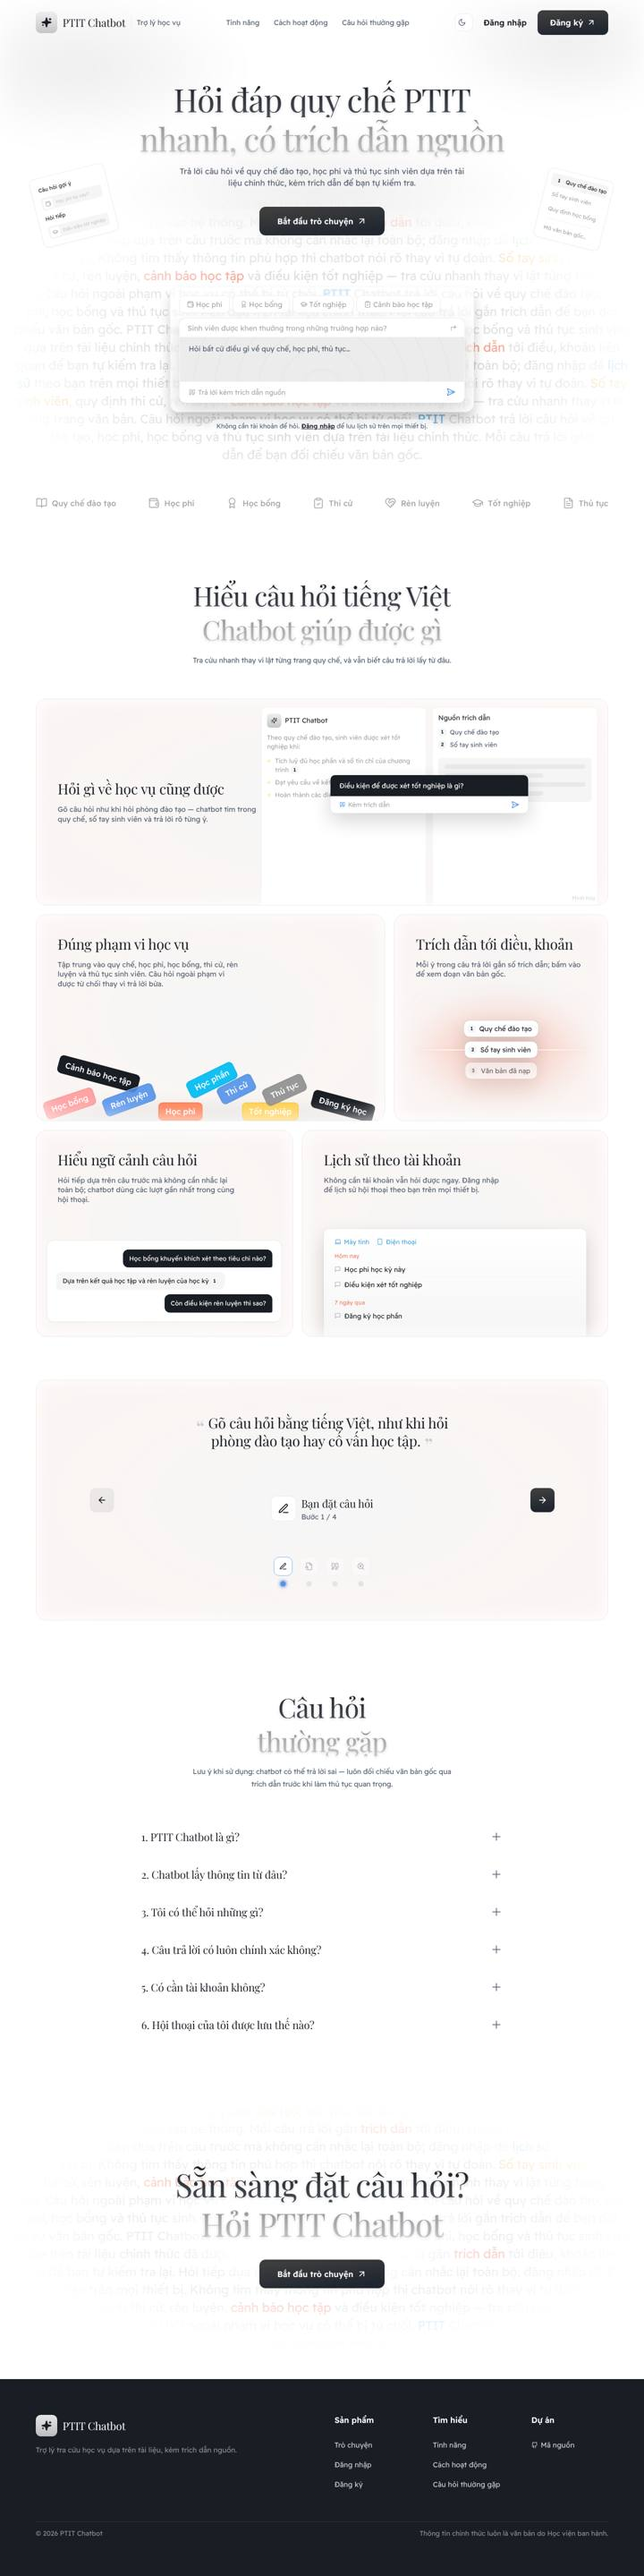
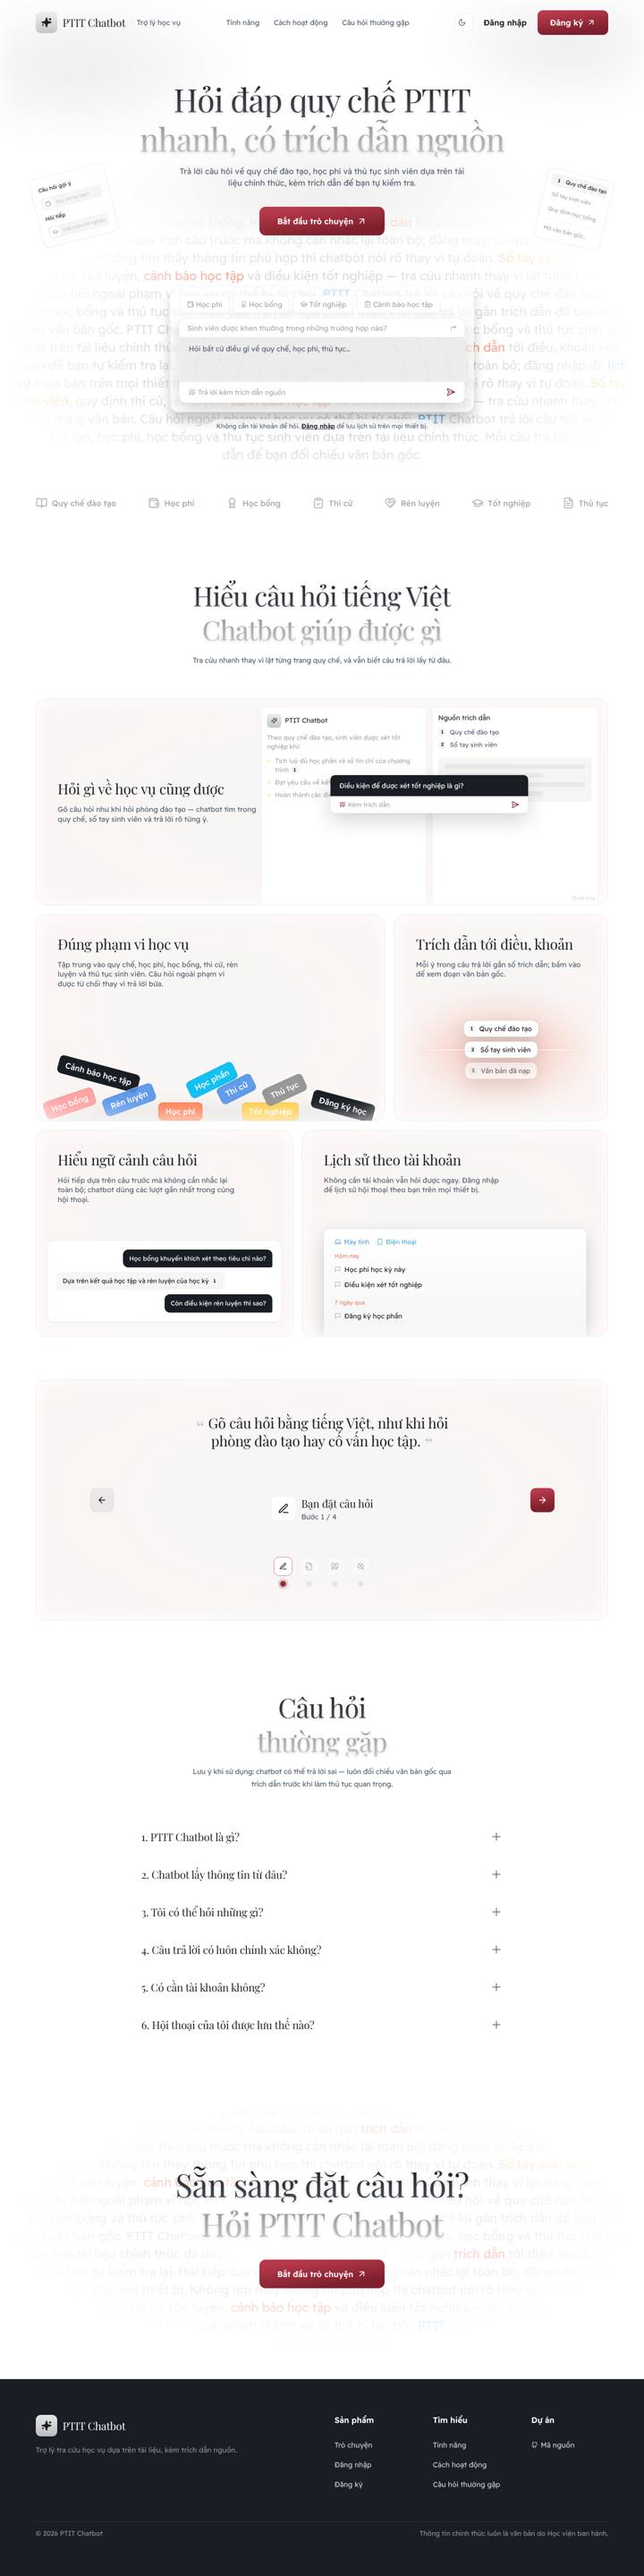
style(frontend): nút landing và trang tài khoản dùng màu maroon PTIT
Token --lp-btn-* và --lp-accent* chuyển sang --brand-* (sáng #7D1F2C→#B8394B,
tối #972635→#C53D52, chữ trắng, tương phản ≥ 5:1); cập nhật kiểm chứng/review.

Claude-Session: https://claude.ai/code/session_01YTzJeHZfTLrFtzzaXAy1aH

diff --git a/frontend/src/styles/tokens.css b/frontend/src/styles/tokens.css
@@ -212,7 +212,8 @@
   --ring-brand: 0 0 0 4px rgba(151, 38, 53, 0.16);
   --ring-danger: 0 0 0 4px rgba(220, 38, 38, 0.16);
 
-  /* Landing (/) — bảng màu theo thiết kế Figma "AI Chat landing page UI kit" */
+  /* Landing (/) — bảng màu theo thiết kế Figma "AI Chat landing page UI kit"; nút chính và
+     màu nhấn dùng maroon PTIT (--brand-*) như app chat. */
   --lp-bg: var(--gray-0);
   --lp-heading: #191d24;
   --lp-heading-gradient: linear-gradient(180deg, #191d24 0%, #4b5059 100%);
@@ -229,9 +230,9 @@
   --lp-glass: rgba(255, 255, 255, 0.6);
   --lp-card-bg: radial-gradient(120% 140% at 50% 50%, #f6f6f6 0%, #fff4f0 100%);
   --lp-card-inset: inset 0 0 50px 0 #ffffff;
-  --lp-btn-bg: linear-gradient(-7deg, #212730 19%, #3d3d3d 87%);
-  --lp-btn-bg-hover: linear-gradient(-7deg, #11151b 19%, #2d2d2d 87%);
-  --lp-btn-text: #ffffff;
+  --lp-btn-bg: linear-gradient(-7deg, var(--brand-700) 19%, #b8394b 87%);
+  --lp-btn-bg-hover: linear-gradient(-7deg, var(--brand-800) 19%, var(--brand-600) 87%);
+  --lp-btn-text: var(--on-solid);
   --lp-btn-soft-bg: linear-gradient(-23deg, rgba(29, 29, 29, 0.07) 19%, rgba(61, 61, 61, 0.07) 87%);
   --lp-logo-tile: linear-gradient(180deg, rgba(238, 238, 238, 0.96) 0%, rgba(195, 195, 195, 0.96) 100%);
   --lp-logo-mark: #191d24;
@@ -244,8 +245,8 @@
   --lp-kw-yellow: #e4b84a;
   --lp-kw-red: #f2846c;
   --lp-kw-blue: #4fa8dd;
-  --lp-accent: #5392ea;
-  --lp-accent-ring: #72acfe;
+  --lp-accent: var(--brand-600);
+  --lp-accent-ring: var(--brand-400);
   --lp-dot: #e3e3e5;
   --lp-tag-pink: #ffa3a4;
   --lp-tag-orange: #ff845b;
@@ -353,9 +354,9 @@
     --lp-glass: rgba(23, 26, 31, 0.7);
     --lp-card-bg: radial-gradient(120% 140% at 50% 50%, #15181d 0%, #1f1a1b 100%);
     --lp-card-inset: inset 0 0 50px 0 rgba(13, 15, 19, 0.9);
-    --lp-btn-bg: linear-gradient(-7deg, #e6e8eb 19%, #ffffff 87%);
-    --lp-btn-bg-hover: linear-gradient(-7deg, #d4d7dc 19%, #f1f2f4 87%);
-    --lp-btn-text: #191d24;
+    --lp-btn-bg: linear-gradient(-7deg, var(--brand-600) 19%, var(--brand-500) 87%);
+    --lp-btn-bg-hover: linear-gradient(-7deg, var(--brand-700) 19%, #b8394b 87%);
+    --lp-btn-text: var(--on-solid);
     --lp-btn-soft-bg: linear-gradient(-23deg, rgba(255, 255, 255, 0.08) 19%, rgba(255, 255, 255, 0.12) 87%);
     --lp-logo-tile: linear-gradient(180deg, rgba(70, 74, 82, 0.96) 0%, rgba(38, 41, 47, 0.96) 100%);
     --lp-logo-mark: #f3f4f6;
@@ -369,8 +370,8 @@
     --lp-kw-red: rgba(217, 112, 90, 0.6);
     --lp-kw-blue: rgba(71, 144, 189, 0.65);
     --lp-tag-dark: #3a3f48;
-    --lp-accent: #6aa4f0;
-    --lp-accent-ring: #6aa4f0;
+    --lp-accent: var(--brand-400);
+    --lp-accent-ring: var(--brand-400);
     --lp-dot: #353a43;
     --lp-glow: rgba(255, 120, 90, 0.18);
     --lp-footer-bg: #08090c;
@@ -462,9 +463,9 @@
   --lp-glass: rgba(23, 26, 31, 0.7);
   --lp-card-bg: radial-gradient(120% 140% at 50% 50%, #15181d 0%, #1f1a1b 100%);
   --lp-card-inset: inset 0 0 50px 0 rgba(13, 15, 19, 0.9);
-  --lp-btn-bg: linear-gradient(-7deg, #e6e8eb 19%, #ffffff 87%);
-  --lp-btn-bg-hover: linear-gradient(-7deg, #d4d7dc 19%, #f1f2f4 87%);
-  --lp-btn-text: #191d24;
+  --lp-btn-bg: linear-gradient(-7deg, var(--brand-600) 19%, var(--brand-500) 87%);
+  --lp-btn-bg-hover: linear-gradient(-7deg, var(--brand-700) 19%, #b8394b 87%);
+  --lp-btn-text: var(--on-solid);
   --lp-btn-soft-bg: linear-gradient(-23deg, rgba(255, 255, 255, 0.08) 19%, rgba(255, 255, 255, 0.12) 87%);
   --lp-logo-tile: linear-gradient(180deg, rgba(70, 74, 82, 0.96) 0%, rgba(38, 41, 47, 0.96) 100%);
   --lp-logo-mark: #f3f4f6;
@@ -478,8 +479,8 @@
   --lp-kw-red: rgba(217, 112, 90, 0.6);
   --lp-kw-blue: rgba(71, 144, 189, 0.65);
   --lp-tag-dark: #3a3f48;
-  --lp-accent: #6aa4f0;
-  --lp-accent-ring: #6aa4f0;
+  --lp-accent: var(--brand-400);
+  --lp-accent-ring: var(--brand-400);
   --lp-dot: #353a43;
   --lp-glow: rgba(255, 120, 90, 0.18);
   --lp-footer-bg: #08090c;

diff --git a/.agents/tasks/2026-10-28-landing-figma-redesign/review.md b/.agents/tasks/2026-10-28-landing-figma-redesign/review.md
@@ -4,7 +4,7 @@
 - Hình thức: `self_review`.
 - Trạng thái: `approved`.
 - Bản được review: diff `053b561..feat/landing-figma-redesign` (commit sau bàn giao).
-- Cập nhật lúc: `2026-10-28T09:25:00+07:00`.
+- Cập nhật lúc: `2026-10-28T09:56:40+07:00`.
 
 ## Phạm vi và cơ sở đánh giá
 
@@ -28,9 +28,15 @@
 
 ### R-03 — Landing không còn dùng màu maroon nhận diện
 
-- Mức độ: `low`; bắt buộc: không; trạng thái: `deferred` (chờ người dùng).
-- Theo thiết kế Figma (trung tính, nút tối). Quyết định D-09 của task trước giữ maroon làm màu nhận diện; app chat
-  vẫn dùng maroon. Nếu muốn, đổi `--lp-btn-bg`/`--lp-accent` sang token maroon trong `tokens.css`.
+- Mức độ: `low`; bắt buộc: không; trạng thái: `resolved`.
+- Theo thiết kế Figma (trung tính, nút tối), khác D-09 của task trước (giữ maroon làm màu nhận diện).
+- Phản hồi/cách sửa (`2026-10-28T09:56:40+07:00`): người dùng yêu cầu nút màu đỏ hợp màu chủ đạo PTIT
+  (`MSG-user-001`). `--lp-btn-bg`/`--lp-btn-bg-hover`/`--lp-btn-text`/`--lp-accent`/`--lp-accent-ring` trong
+  `tokens.css` chuyển sang `--brand-*` (sáng: `#7D1F2C → #B8394B`, tối: `#972635 → #C53D52`, chữ trắng; tương phản
+  chữ trắng ≥ 5.04:1). Áp cho nút chính (nav, hero, dải kêu gọi), nút "Bước tiếp theo", nút gửi, chấm carousel đang
+  chọn, vòng focus, nút trang đăng nhập/đăng ký.
+- Xác nhận của reviewer: đã xem ảnh chụp 1440 sáng/tối, 360, `/login` 1280 sáng/360 tối; test và
+  `check:bundle` chạy lại đạt.
 
 ### Điểm đã kiểm và không có nhận xét
 
@@ -43,9 +49,10 @@
 ## Lịch sử các vòng review
 
 - `2026-10-28T09:25:00+07:00` — `claude-agent` (`self_review`) — `approved`; R-01 … R-03 `low`, `deferred`.
+- `2026-10-28T09:56:40+07:00` — `claude-agent` (`self_review`) — `approved`; R-03 `resolved` (nút maroon).
 
 ## Kết luận
 
 - Kết luận: `approved` (`self_review`).
 - Nhận xét bắt buộc còn mở: không.
-- Nhận xét hoãn lại: R-01, R-02, R-03.
+- Nhận xét hoãn lại: R-01, R-02. R-03 đã xử lý.

diff --git a/.agents/tasks/2026-10-28-landing-figma-redesign/task.md b/.agents/tasks/2026-10-28-landing-figma-redesign/task.md
@@ -5,7 +5,7 @@
 - Coordinator: `claude-agent`
 - Người yêu cầu: người dùng (yêu cầu trực tiếp trong phiên chat)
 - Tạo lúc: `2026-10-28T09:09:12+07:00`
-- Cập nhật lúc: `2026-10-28T09:25:00+07:00`
+- Cập nhật lúc: `2026-10-28T09:56:40+07:00`
 
 ## Yêu cầu và kết quả mong muốn
 
@@ -58,10 +58,12 @@ accordion; dải kêu gọi hành động; footer nền tối.
 
 - Tóm tắt: `done` — S-01 … S-04 xong, V-01 … V-05 `passed`, review `self_review` `approved`.
 - Blocker: không.
-- Bước tiếp theo: người dùng xem landing; quyết định R-03 (giữ nền trung tính theo Figma hay đổi sang maroon).
+- Bước tiếp theo: người dùng xem landing và merge (sau `feat/landing-user-auth`).
 
 ## Lịch sử quyết định về phạm vi/trạng thái
 
 - `2026-10-28T09:09:12+07:00` — `claude-agent`: tạo task từ yêu cầu người dùng; đọc thiết kế qua connector Figma
   (asset URL của Figma bị chặn mạng trong phiên nên icon dùng `lucide-react`, nền mờ/chữ gradient dựng bằng CSS).
 - `2026-10-28T09:25:00+07:00` — `claude-agent`: hoàn tất, chuyển `done`.
+- `2026-10-28T09:56:40+07:00` — `claude-agent`: người dùng yêu cầu nút màu đỏ PTIT; đổi token nút/màu nhấn sang
+  maroon, kiểm chứng lại (V-06), task vẫn `done`.

diff --git a/.agents/tasks/2026-10-28-landing-figma-redesign/verification.md b/.agents/tasks/2026-10-28-landing-figma-redesign/verification.md
@@ -51,6 +51,16 @@
   chat 80.04 kB (mốc 128.41); không trang nào chứa module bị cấm.
 - Trạng thái: `passed`.
 
+### V-06 — Nút maroon (theo `MSG-user-001`)
+
+- Người thực hiện / thời gian: `claude-agent` / `2026-10-28T09:56:40+07:00`.
+- Thao tác: chụp `/` 1440 sáng/tối, 360 sáng; `/login` 1280 sáng, 360 tối; chạy lại `npx vitest run`,
+  `npm run check:bundle`; tính tương phản chữ trắng trên nền nút.
+- Kết quả: nút chính, nút "Bước tiếp theo", nút gửi, chấm carousel và nút đăng nhập/đăng ký có màu maroon ở cả hai
+  chủ đề; tương phản chữ trắng ≥ 5.64:1 (sáng, `#B8394B`) và ≥ 5.04:1 (tối, `#C53D52`); `19 files, 146 tests
+  passed`; `check:bundle đạt`; không cuộn ngang.
+- Trạng thái: `passed`. Bằng chứng: các ảnh trong `evidence/` (đã chụp lại).
+
 ## Lỗi, kiểm tra lại và phần chưa xác minh
 
 - Chưa thử Firefox/Safari, chưa đo hiệu năng tải font trên mạng chậm (font `font-display: swap`).

diff --git a/.agents/tasks/2026-10-28-landing-figma-redesign/implementation.md b/.agents/tasks/2026-10-28-landing-figma-redesign/implementation.md
@@ -46,9 +46,20 @@
 - `src/landing/LandingPage.test.jsx` (8 test), `src/App.test.jsx` (+1), `src/lib/appRoute.test.js` (+2).
 - Kết quả: xem `verification.md`.
 
+### Điều chỉnh sau bàn giao — claude-agent
+
+- Lúc: `2026-10-28T09:56:40+07:00`.
+- Theo `MSG-user-001`: nút chính và màu nhấn của landing/trang tài khoản chuyển sang maroon PTIT (chỉ đổi token
+  `--lp-btn-*`, `--lp-accent*` trong `tokens.css`; không đổi component). Xem `review.md` R-03.
+
 ## Trao đổi giữa agents
 
-- Không có (một agent).
+### MSG-user-001
+
+- Lúc: `2026-10-28T09:50:00+07:00`.
+- Từ: người dùng; đến: `claude-agent`.
+- Nội dung: "các button cần có màu đỏ để hợp với màu chủ đạo của PTIT".
+- Hành động: đã làm (nút maroon, xem R-03).
 
 ## Bàn giao
 
